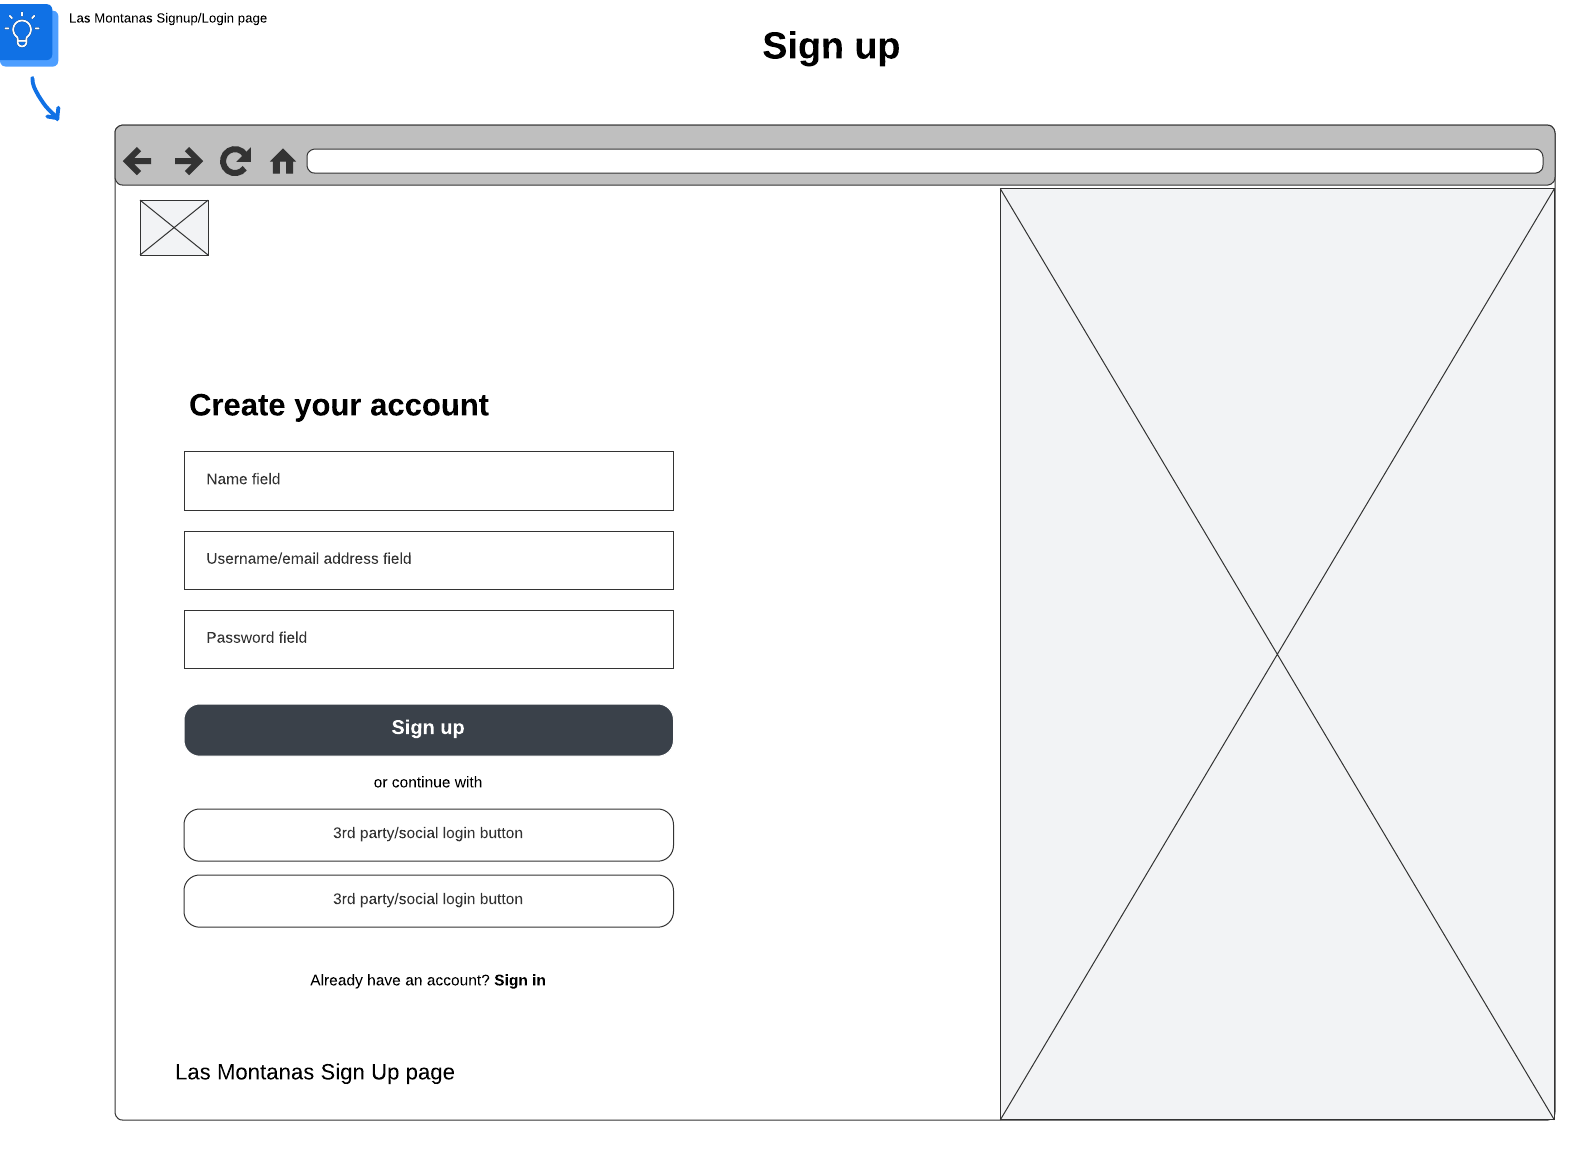
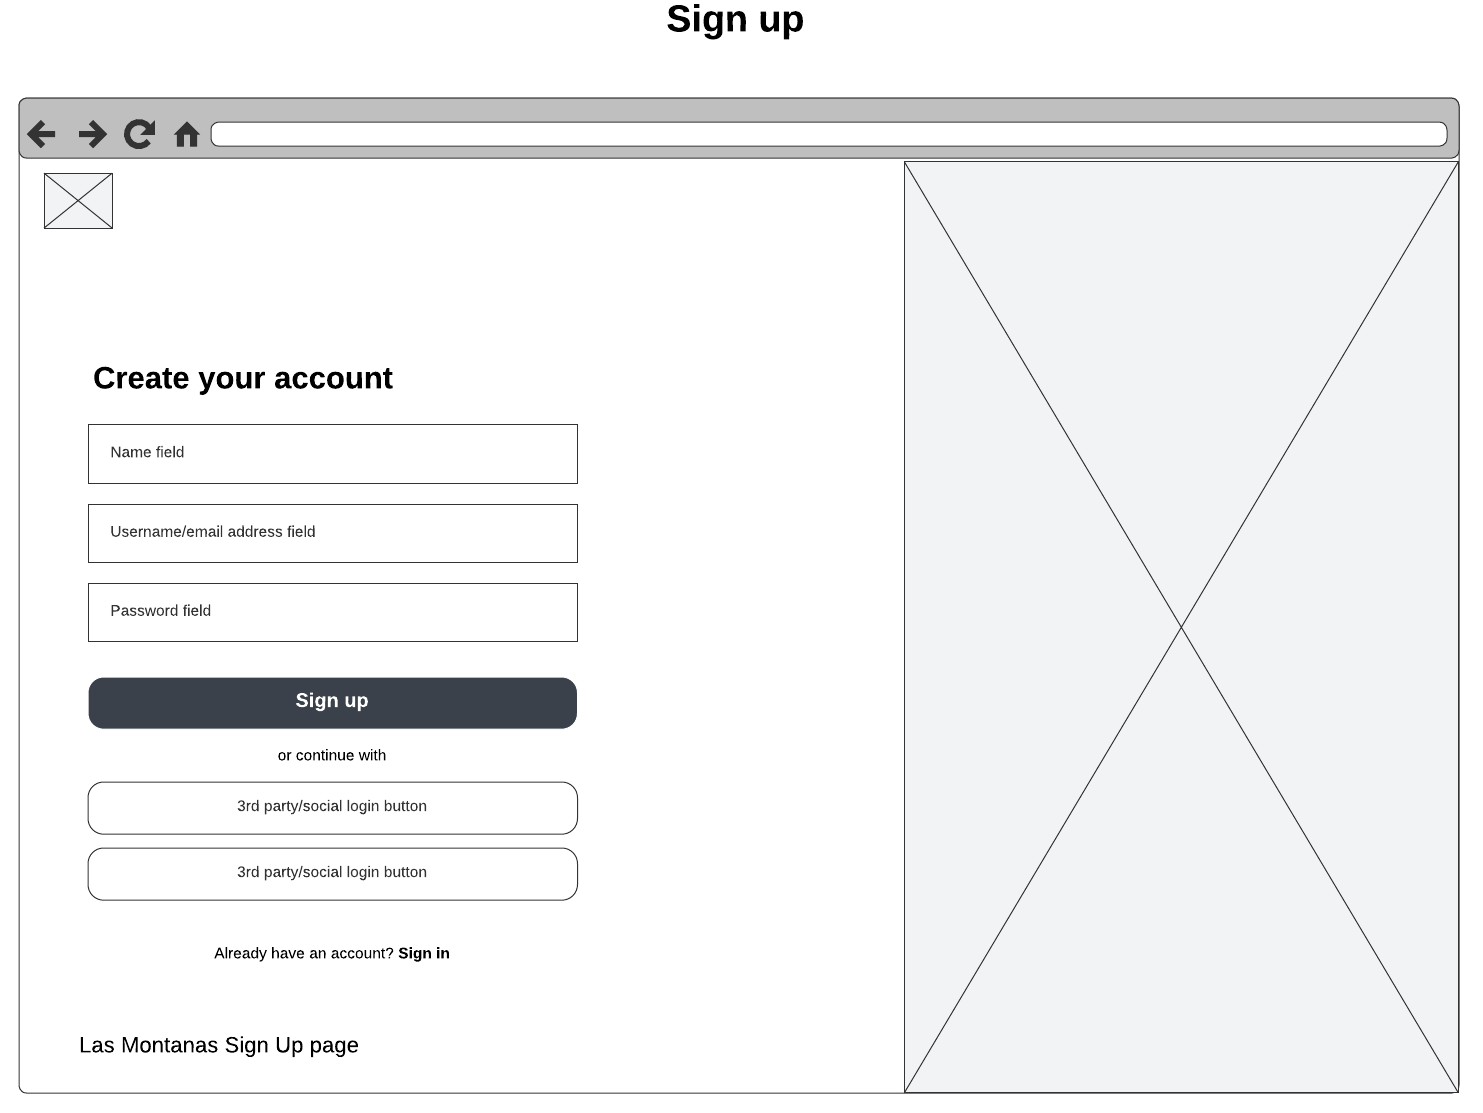
edits commit

diff --git a/style.css b/style.css
@@ -11,45 +11,44 @@
     scroll-padding-top: 2rem;
     font-family: "Poppins", sans-serif;
 }
- :root{
-    --main-color: #e07f00;
-    --bg0color: #fff;
-    --text-color: #0f0c30;
-    --hover: hsl(39, 100%, 50%);
 
-    --big-font: 3.2rem;
-    --medium-font: 1.8rem;
-    --p-font: 0.941rem;
- }
+:root {
+  --primary-color: #ff9442;
+  --secondary-color: #0c0a5d;
+  --text-dark: #030712;
+  --text-light: #4b5563;
+  --extra-light: #f5f6f8;
+  --white: #ffffff;
+  --max-width: 1200px;
+}
 
- section{
-  padding: 50px 10%;
-  }
-  body{
-     background: var(--bg-color);
-     color: var(--text-color);
- }
- *::selection{
-     color: var(--bg-color);
-     background: var(--main-color);
-     }
-header{
-    position: fixed;
-    width: 100%;
-    top: 0;
-    right: 0;
-    z-index: 1000;
-    display: flex;
-    align-items: center;
-    justify-content: space-between;
-    background: var(--bg-color);
-    padding: 18x 10%;
-    transition: 0.2s;
+* {
+  padding: 0;
+  margin: 0;
+  box-sizing: border-box;
+}
 
- }
- header.shadow{
-    box-shadow: 0 0 4px rgb(14 55 54/15%);
- }
+.section__container {
+  max-width: var(--max-width);
+  margin: auto;
+  padding: 5rem 1rem;
+}
+
+.section__subheader {
+  font-size: 1.2rem;
+  font-weight: 500;
+  color: var(--primary-color);
+  text-align: center;
+}
+
+.section__header {
+  font-size: 2.5rem;
+  font-weight: 700;
+  color: var(--secondary-color);
+  text-align: center;
+}
+
+
 .logo{
     font-size: 1.1rem;
     font-weight: 600;
@@ -57,7 +56,20 @@ header{
     }
   .navbar{
       display: flex;
+   }
+  .nav__header {
+    padding: 0.75rem 1rem;
+    width: 100%;
+    display: flex;
+    align-items: center;
+    justify-content: space-between;
+    background-color: var(--primary-color);
+  }
 
+   .nav__menu__btn {
+     font-size: 1.5rem;
+     color: var(--white);
+     cursor: pointer;
    }
    .navbar a{
       font-size: 1rem;
@@ -68,12 +80,25 @@ header{
    .navbar a:hover{
       color: #FFA500;
   }
-  #menu-icon{
-      font-size: 24px;
-      cursor: pointer;
-      z-index: 10001;
-      display: none;
-   }
+  .btn {
+    padding: 0.625rem 1.5rem;
+    outline: none;
+    border: none;
+    font-size: 1rem;
+    color: var(--white);
+    background-color: var(--primary-color);
+    border: 2px solid var(--primary-color);
+    border-radius: 5rem;
+    transition: 0.3s;
+    cursor: pointer;
+  }
+
+  .btn:hover {
+    color: var(--secondary-color);
+    background-color: transparent;
+    box-shadow: 10px 10px 20px rgba(0, 0, 0, 0.1);
+  }
+
  header {
    background-color: var(--extra-light);
  }
@@ -92,39 +117,45 @@ header{
 
 }
 
- .design{
- position: relative;
- width: 100%;
- min-height: 100vh;
- display: grid;
- grid-template-columns: 0.2fr 1fr 1fr;
- align-items: center;
- gap: 1rem;
- }
+.design {
+  background-color: var(--extra-light);
+}
 
 .design__grid {
-    grid-template-columns: repeat(3, 1fr);
+  margin-top: 4rem;
+  display: grid;
+  gap: 2rem 1rem;
+}
+
+.design__card {
+  transition: 0.3s;
+}
+
+.design__card:hover {
+  background-color: var(--white);
+  box-shadow: 0 0 20px rgba(0, 0, 0, 0.1);
+}
+
+.design__card div {
+  padding: 1rem;
+}
+
+.design__card p {
+  font-weight: 500;
+  color: var(--text-light);
+}
+
+.design__card h4 {
+  font-size: 1.2rem;
+  font-weight: 600;
+  color: var(--secondary-color);
+}
+
+.design__grid {
+    grid-template-columns: repeat(2, 1fr);
   }
 }
 .design__grid {
     gap: 1.5rem;
-  }
-}
-.UI{
- position: relative;
- width: 25%;
- min-height: 25vh;
- display: grid;
- grid-template-columns: 0.2fr 0.2fr 0.2fr;
- align-items: center;
- gap: 1rem;
- }
-
-.UI__grid {
-    grid-template-columns: repeat(1, 1fr);
-  }
-}
-.UI__grid {
-    gap: 1.0rem;
   }
 }

diff --git a/index.html b/index.html
@@ -16,11 +16,13 @@
 <body>
 <!--Nav bar-->
 <header>
-    <a href="#" class="logo">Designs</a>
-    <div class="bx bx-menu" id="menu-icon"></div>
+    <a href="#" class="logo">Software Designs & UI</a>
+    <div class="nav__menu__btn" id="menu-btn">
+        <i class="ri-menu-line"></i>
+    </div>
     <ul class="navbar">
-        <li><a href="index.html">Home</a></li>
-        <li><a href="UI/UX.html">About</a></li>
+        <li><a href="#design">Design</a></li>
+        <li><a href="#UI/UX">UI/UX</a></li>
     </ul>
 </header>
 <!--Design / UI/UX-->
@@ -43,23 +45,34 @@
                     <h4>Usa Case Diagram design of Halloween game</h4>
                 </div>
             </div>
+            <div class="UI/UX" id="UI/UX">
+                <h2 class="section__header">UI/UX of ecommerce website</h2>
+                <div class="design__grid">
+                    <div class="design__card">
+                        <img src="assets/h_pg.png" alt="UI" />
+                        <div>
+                            <p>Fall Nov 2024</p>
+                            <h4>Home page UI design: A Wireframe of Montana's e-commerce website home page</h4>
+                        </div>
+                    </div>
+                    <div class="design__card">
+                        <img src="assets/S1.png" alt="UI" />
+                        <div>
+                            <p>Fall Nov 2024</p>
+                            <h4>SignUp page UI/UX design: A Wireframe of Montana's SignUp UI</h4>
+                        </div>
+                    </div>
+                    <div class="design__card">
+                        <img src="assets/S2.png" alt="UI" />
+                        <div>
+                            <p>Fall Nov 2024</p>
+                            <h4>Login page UI/UX design: A Wireframe of Montana's Login UI</h4>
+                        </div>
+                    </div>
         </div>
-    </div>
- </section>
-<section class="UI" id="UI">
-    <div class="section__container">
-        <p class="section__subheader">UI/UX Design</p>
-        <h2 class="section__header">UI of ecommerce website</h2>
-        <div class="UI__grid">
-            <div class="UI__card">
-                <img src="assets/UI.png" alt="design" />
-                <div>
-                    <p>Fall Nov 2024</p>
-                    <h4>Home page  & Login page UI/UX design: A UI Wireframe of Montana's e-commerce website</h4>
                 </div>
-            </div>
-        </div>
-        </div>
+    </div>
+    </div>
 </section>
 </body>
 </html>
